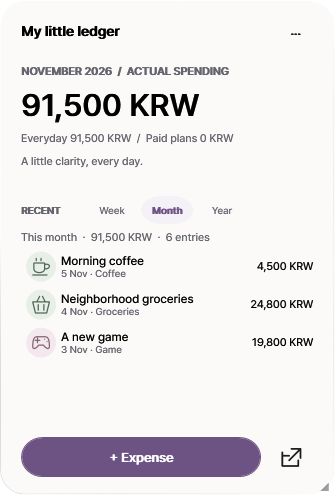
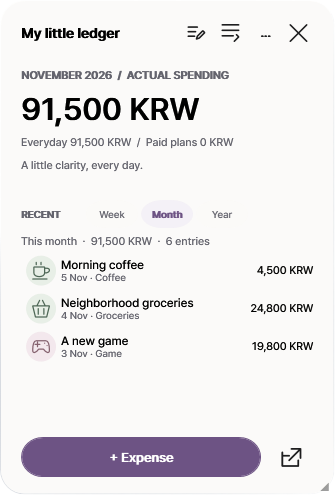
BETA02: publish second Windows beta downloads and new widget showcase

diff --git a/README.md b/README.md
@@ -1,93 +1,98 @@
 # Tally
 **Your spending, without the noise.**
 
-**A calm Windows spending journal, subscription tracker and desktop companion.** Tally opens as a small widget, stays out of the way, and keeps your expenses, recurring bills and receipt photos together on your PC.
+A calm, local-first Windows spending journal, subscription tracker, and desktop companion. Start with a small widget. Open the full workspace only when you need it.
 
-**Windows 10/11 x64 · Local-first · No account · No banking connection · Beta 1**
+**Windows 10/11 x64 · Offline-friendly · No account · No bank connection · Beta 2**
 
-## Download Tally Beta 1
+## Download Tally Beta 2
 
-| Choose | Download | Where your records live |
+| Edition | Download | Where your own records stay |
 |:--|:--|:--|
-| **Portable ZIP** — extract and run, no installation | **[Download portable ZIP](https://github.com/memeseonew-eng/Tally/releases/download/v0.5.0-beta.1/Tally-Portable-v0.5.0-beta.1-win-x64.zip)** | `data/` beside `Tally.exe` |
-| **Windows Setup** — shortcuts, simple updates, per-user install | **[Download Windows installer](https://github.com/memeseonew-eng/Tally/releases/download/v0.5.0-beta.1/Tally-Setup-v0.5.0-beta.1-win-x64.exe)** | `%LOCALAPPDATA%\Tally\data` |
+| **Portable ZIP** — extract and launch | [Portable for Windows x64](https://github.com/memeseonew-eng/Tally/releases/download/v0.5.4-beta.2/Tally-Portable-v0.5.4-beta.2-win-x64.zip) | `data/` beside `Tally.exe` |
+| **Windows Setup** — installed shortcuts, per-user setup | [Windows Setup for x64](https://github.com/memeseonew-eng/Tally/releases/download/v0.5.4-beta.2/Tally-Setup-v0.5.4-beta.2-win-x64.exe) | `%LOCALAPPDATA%\Tally\data` |
 
-**[Beta 1 release notes](https://github.com/memeseonew-eng/Tally/releases/tag/v0.5.0-beta.1)** · **[All versions](https://github.com/memeseonew-eng/Tally/releases)** · **[SHA256 checksums](https://github.com/memeseonew-eng/Tally/releases/download/v0.5.0-beta.1/SHA256SUMS.txt)**
+[**What's new in Beta 2**](https://github.com/memeseonew-eng/Tally/releases/tag/v0.5.4-beta.2) · [SHA256 checksums](https://github.com/memeseonew-eng/Tally/releases/download/v0.5.4-beta.2/SHA256SUMS.txt) · [All versions](https://github.com/memeseonew-eng/Tally/releases)
 
-*This is an unsigned early beta. Windows may warn about an unrecognized publisher. Download only from the official release, verify the SHA256 checksum, and don't disable your security protections.*
-
----
-
-## A little clarity, every day
-
-![Tally Overview — upcoming bills and recorded spending](screenshots/tally-overview.png)
-*Everything in context: actual spending, the next payment, and 30-day/365-day scheduled forecasts. Screenshots use illustrative demo data.*
-
-### Keep it on your desktop
-
-Tally starts as a discreet **desktop widget**. See your spending at a glance, add an expense, then return to your day. Select **recent Week / Month / Year** without losing the separate current-month total. Open the full app with the small arrow icon, or hide the widget to the Windows tray.
-
-<img src="screenshots/tally-widget.png" width="350" alt="Tally calm desktop widget with recent spending, category icons, and quick expense entry">
-
-The widget can optionally show upcoming bills, top spending categories, or more recent entries — **none of these extras are forced on first launch.**
-
-### Your spending, with a real timeline
-
-![Tally Expenses — monthly spending charts and category breakdown](screenshots/tally-expenses.png)
-*Week, Month and Year views, categories, totals and transactions. Currency totals are always separate.*
-
-Record everyday purchases, search the ledger, choose from **27 category icons** (including Game), and see where the money went. Add up to **three local photos per expense** — useful for receipts and things worth remembering. Paid subscription records appear in actual spending only when you explicitly mark them paid.
-
-### Make it yours. Or don't change a thing.
-
-![Tally optional Style Studio — accent swatches, widget titles, badges and preview](screenshots/tally-personalization.png)
-*An optional customization panel, shown with an example lilac style. The understated original is the default.*
-
-- Choose a local background photo; fine-tune **blur and panel opacity**.
-- Pick an accent, or enter your own hex color.
-- Personalize the widget title and short note.
-- Choose rounded, circle or square category badges.
-- Save up to eight looks and **return to the base design in one click**.
-
-No dozens of overwhelming themes. Just a quiet default and thoughtful optional finishing touches.
-
-### Your file, your records, your backup
-
-![Tally local data and recovery backup screen](screenshots/tally-data-backup.png)
-*Local database snapshot and recovery controls.*
-
-Tally needs **no account, cloud login, API subscription or bank access**. It stores records in a local SQLite file plus optional images and preference files. Before destructive removal, Tally creates a recovery snapshot. You can also save a database snapshot from Settings or create a **full data-folder ZIP** (including receipts and preferences) after quitting the app.
-
-The Windows installer **does not delete your data when uninstalled**. Moving from portable to setup? Quit both editions and copy the whole data folder to the installed location. Do not overwrite two independently edited datasets.
+*Beta 2 is unsigned. Windows may warn about an unrecognized publisher. Get it only from our official release, check the SHA256 hash, and keep Windows security enabled.*
 
 ---
 
-## What makes Tally different?
+## Quiet by default. Useful when you need more.
 
-| | |
-|---|---|
-| **Widget-first, not dashboard-first** | A tiny companion until you need the full ledger |
-| **Actual vs. expected** | Recorded purchases never silently become future forecasts; scheduled bills aren't automatically considered paid |
-| **Personal, optional style** | Liquid-glass-inspired neutral layout with background photos, blur, badges and saved looks |
-| **Receipts that stay local** | Up to three managed photo attachments per expense |
-| **Simple backup story** | A predictable data folder, guarded SQLite writes and recovery before removal |
-| **Exact, separate currencies** | No invented exchange rates or misleading mixed-currency totals |
-| **Offline by design** | No required server, banking connector, cloud account or background release check |
+![Tally overview with actual spending and projected bills](screenshots/tally-overview.png)
+*Actual expenses and future scheduled bills live side by side — but they are never mistaken for the same thing. All images show illustrative synthetic data.*
 
-## Install and update
+### One widget for the everyday things
 
-**Portable:** Extract the complete ZIP into a writable folder (e.g., Documents), then open `Tally.exe`. Keep the entire extracted folder, especially `data/`. For a full data ZIP, quit Tally and run `Backup-Tally.cmd`. To update, close Tally and replace only the app files, not your `data/` folder.
+Tally opens to a floating desktop widget with current-month actual spending, your recent purchases, and a quick **+ Expense** action. You can choose a Week, Month, or Year recent-activity view without changing the current-month headline.
 
-**Setup:** Run the installer. It installs for the current Windows user without administrator access and stores user records separately at `%LOCALAPPDATA%\Tally\data`. Use the **Back up Tally data** Start menu shortcut after quitting Tally. Updating or uninstalling the app does not remove your data folder.
+<img src="screenshots/tally-widget.png" alt="Tally neutral desktop spending widget" width="350">
 
-Tally's own **Settings → Additional · Beta & updates** panel shows the installed version and links to this release and the version history. Updates are manual for this beta.
+**Beta 2 adds small, optional tools in that same widget.** There is no mandatory dashboard or extra setup.
 
-## Beta notes
+| Quick note | Direct management |
+|:--|:--|
+| <img src="screenshots/tally-notes.png" width="310" alt="Tally private in-widget note editor"> | <img src="screenshots/tally-manage-subscriptions.png" width="310" alt="Tally widget subscription management and add button"> |
+| Keep a short, private note on this device. It saves safely without becoming a transaction. | Edit expenses or subscriptions, add a subscription, and explicitly record a due payment without opening the main window. |
 
-Tally is an early Windows x64 beta. It does **not** automatically read bank transactions, detect settled payments, perform currency conversion, synchronize data between computers, or provide certified reminders. The desktop widget is an independent floating WPF window, not embedded into the Explorer desktop layer; multi-monitor behavior and Win+D persistence still need broader validation. The app and installer are currently **unsigned**. For problems, please use [GitHub Issues](https://github.com/memeseonew-eng/Tally/issues), but **never post your personal `data/` folder, receipts or bank information in an issue**.
+Switch between **Manage → Expenses** and **Manage → Subscriptions**, and the single large Add button changes with you. The widget's **×** hides just the widget; Tally stays accessible in the Windows tray.
 
-## License and resources
+<img src="screenshots/tally-manage-expenses.png" width="350" alt="Manage existing expense records directly from the widget">
 
-Tally's original application binaries, icons, design assets and compiled shaders are distributed under **[proprietary end-user terms](LICENSE.txt)**. This public repository is a binary release and product information hub — **not an open-source code repository**. Third-party .NET and SQLite components retain their own separate licenses; see [notices](THIRD-PARTY-NOTICES.txt).
+### Open and close as one continuous gesture
+
+The widget's full-window arrow opens the workspace with a quick, position-linked entrance. Close the workspace using its X and the motion gently returns toward that same widget button. Currency, category, billing-cycle, and calendar lists unfold with restrained motion too.
+
+No excessive bouncing or long loading delays: controls remain clickable, keyboard navigation works, and Windows reduced-motion and high-contrast settings are respected. The widget is a regular independent WPF window, not an Explorer desktop injection.
+
+### See what you've actually spent
+
+![Tally spending ledger with category totals](screenshots/tally-expenses.png)
+*Week, Month, and Year recorded spending; separate currencies, clear categories, and a searchable ledger.*
+
+- Add, edit, and find everyday expenses; use 27 category presets including Game, or create your own.
+- Attach up to three local photos or receipts to a transaction.
+- Keep paid subscriptions in your actual expense history **only after** you confirm a real payment.
+- View category insights as an option; keep simple defaults intact.
+
+### Plan subscriptions without inventing payments
+
+Track recurring subscriptions and forecast the next 30 or 365 days. Scheduled costs are not silently treated as settled payments. Use **Record paid** intentionally, with confirmation and duplicate protection. Older payment records are preserved through subsequent subscription edits or archiving.
+
+### Personalize it — or leave it alone
+
+![Tally optional personalization](screenshots/tally-personalization.png)
+*Neutral glass is the default. Custom backgrounds, accents, widget text, badges, and saved looks are optional.*
+
+Choose a local wallpaper, adjust blur and panel opacity, tweak the accent, personalize the widget title, and save up to eight visual looks. **Use base design** returns to the understated original.
+
+### Everything lives on your computer
+
+![Tally local backup and settings panel](screenshots/tally-data-backup.png)
+
+Your expenses and subscriptions are stored in local SQLite alongside optional note, appearance, and photo files. No online account, bank login, cloud sync, exchange-rate guessing, or background update polling is required.
+
+Tally takes recovery backups before protected removals. After quitting the app, you can run the included **Backup-Tally** helper to preserve the *entire data folder*, including local photos and preferences.
+
+## Install, upgrade, and protect your data
+
+**Portable:** Extract the whole ZIP to a writable folder, then run `Tally.exe`. For a manual update, quit Tally first, keep your `data/` folder intact, and replace only application files. `Open-Full-Tally.cmd` opens the complete workspace directly.
+
+**Setup:** Install for your Windows account without an administrator requirement. Your files stay at `%LOCALAPPDATA%\Tally\data`, outside the application directory. Uninstalling does not delete that folder. Update using the new Setup after quitting Tally.
+
+**Switching editions or PCs?** Quit both, back up the *whole* data folder, and copy it to the destination. Do not combine independently edited SQLite databases or overwrite newer transactions with an older copy.
+
+Tally's **Settings → Additional · Beta & updates** section contains the installed version, this release, and release history links. Updates are manual.
+
+## A few important limits
+
+This is an early, unsigned Windows x64 beta. There is no automatic bank-transaction detection, foreign-exchange conversion, built-in account/cloud syncing, certified reminders, or guaranteed Win+D persistence. Multi-monitor and mixed-DPI behavior are not fully certified.
+
+Report bugs through [GitHub Issues](https://github.com/memeseonew-eng/Tally/issues), but **never attach your actual `data/` folder, private receipts, real banking records, or private developer archives**.
+
+## License
+
+The public repository is a **binary download and product-information hub, not an open-source code repository**. Original application code and assets are proprietary; see [LICENSE.txt](LICENSE.txt). Third-party .NET and SQLite packages retain their respective licenses; see [THIRD-PARTY-NOTICES.txt](THIRD-PARTY-NOTICES.txt).
 
 © 2026 Tally contributors. All rights reserved.

diff --git a/RELEASE_NOTES_BETA2.md b/RELEASE_NOTES_BETA2.md
@@ -1,0 +1,68 @@
+# Tally 0.5.4 Beta 2 — Your desktop companion, more complete
+
+**A quieter way to keep track of real spending and recurring plans — now with notes, direct widget management, and natural motion.**
+
+The second public Windows beta expands the small desktop companion without making the default interface more complicated. All existing local records, custom looks, and manual subscription-payment rules remain intact.
+
+## Download for Windows 10/11 x64
+
+- **Portable ZIP:** [Tally-Portable-v0.5.4-beta.2-win-x64.zip](https://github.com/memeseonew-eng/Tally/releases/download/v0.5.4-beta.2/Tally-Portable-v0.5.4-beta.2-win-x64.zip)
+- **Windows Setup:** [Tally-Setup-v0.5.4-beta.2-win-x64.exe](https://github.com/memeseonew-eng/Tally/releases/download/v0.5.4-beta.2/Tally-Setup-v0.5.4-beta.2-win-x64.exe)
+- **File hashes:** [SHA256SUMS.txt](https://github.com/memeseonew-eng/Tally/releases/download/v0.5.4-beta.2/SHA256SUMS.txt)
+
+Both packages are self-contained with .NET and Windows Desktop runtime 10.0.14; no separate .NET installation is required. There is no account, subscription, cloud service, or bank connection required.
+
+## What's new since Beta 1
+
+### 1. Notes — a little space for the things you don't want to forget
+
+![Private widget quick note](https://raw.githubusercontent.com/memeseonew-eng/Tally/v0.5.4-beta.2/screenshots/tally-notes.png)
+
+Tap the widget's Notes icon to write a short note (up to 1,500 characters) without entering the full application. Notes are saved locally, use guarded atomic storage, and retain recoverable copies if a file is malformed. No note file is created simply by opening the empty panel.
+
+### 2. Manage expenses and subscriptions without opening a big window
+
+![Manage subscriptions directly in the widget](https://raw.githubusercontent.com/memeseonew-eng/Tally/v0.5.4-beta.2/screenshots/tally-manage-subscriptions.png)
+
+The optional widget Manage view has **Expenses** and **Subscriptions** tabs. Edit an existing record or create a new one using the native editor. The single large action changes automatically between **+ Expense** and **+ Subscription**. A scheduled payment can be marked **Record paid** only with confirmation and duplicate protection. The full main window stays hidden.
+
+![Manage expenses from the desktop widget](https://raw.githubusercontent.com/memeseonew-eng/Tally/v0.5.4-beta.2/screenshots/tally-manage-expenses.png)
+
+### 3. A real one-click widget close
+
+The new **×** at the top of the widget closes only that floating companion. Tally stays in the Windows tray, so it is easy to bring back. Notes are still guarded against unsafe closure when their save fails.
+
+### 4. An interface that feels connected
+
+Opening Tally from the widget's small arrow now uses a brief origin-linked expansion. Closing the full workspace through its X uses a complementary short return toward that same widget button. Currency, category, billing-cycle and calendar lists have gentle, responsive *opening* motion, along with subtle button and tab feedback. Reduced-motion and high-contrast OS settings are respected.
+
+**Important:** Native dropdowns close immediately to preserve keyboard Tab/Escape behavior; an extra closing fade is **not** included.
+
+### 5. Everything you already rely on
+
+![Spending by period and category](https://raw.githubusercontent.com/memeseonew-eng/Tally/v0.5.4-beta.2/screenshots/tally-expenses.png)
+
+- Record and edit spending by Week, Month or Year; search, filter, and view category totals.
+- Pick from 27 preset categories (including Game) or enter a custom name; attach up to three local photos per purchase.
+- Manage recurring subscriptions, predicted next 30/365-day charges, retained paid records, archive and restore.
+- Keep actual expenses separate from scheduled bills. Payments are **never automatically declared paid** and currencies are **never silently converted**.
+- Personalize the neutral glass interface only if you wish: local wallpaper, blur/opacity, accents, badge shapes, widget title and saved looks.
+- Make full local data backups (including photos and settings) with the included helper after quitting Tally.
+
+## Updating without losing data
+
+**Portable:** Quit Tally from the tray, then replace the old program files with this new ZIP. Keep your complete existing `data/` folder beside the executable; never replace it with an empty folder from a new extraction.
+
+**Setup:** Quit Tally before running the new installer. The application installs per-user; private data remains in `%LOCALAPPDATA%\Tally\data`, and uninstalling the application does not delete it.
+
+Before switching editions or machines, make a complete data-folder backup. SQLite files, receipt photos, notes, background copies and appearance settings all matter. Do not combine two separately edited databases.
+
+## Privacy and limits
+
+Tally remains local-first and does not silently contact banking APIs, upload financial data, sync between devices, calculate FX rates or check for updates in the background. This is an **unsigned early beta**; Windows may show an unrecognized-publisher warning. Verify official file hashes and leave security protections enabled. Mixed-DPI/multiple-monitor use and Win+D persistence remain areas for wider testing.
+
+Every screenshot here shows **synthetic demonstration data**. Do not attach your real Tally data folder, receipts or private development backups to issues.
+
+Tally's public GitHub repository contains downloads, documentation and promotional screenshots only. Original C# source, WPF resources and development Git history are not published.
+
+[All releases](https://github.com/memeseonew-eng/Tally/releases) · [Report an issue](https://github.com/memeseonew-eng/Tally/issues) · [License](https://github.com/memeseonew-eng/Tally/blob/main/LICENSE.txt)

diff --git a/CHANGELOG.md b/CHANGELOG.md
@@ -1,5 +1,17 @@
 # Tally release history
 
+## 0.5.4 Beta 2 (2026-11-05)
+Second public Windows x64 beta: the widget becomes a more useful independent companion while the default layout stays quiet.
+
+- **Widget quick note:** Optional 1,500-character private scratchpad, autosave/manual save, guarded atomic updates and explicit recovery.
+- **Direct widget management:** Edit/add everyday expenses and subscriptions, and confirm scheduled payments without opening the full workspace.
+- **Single adaptive primary action:** The widget's large button changes between + Expense and + Subscription; duplicate small add actions were removed.
+- **One-click widget close:** A dedicated X hides only the widget and preserves the tray and safe note closure.
+- **Connected motion:** Widget-to-workspace opening and a complementary reverse close, subtle navigation and button feedback, and short native currency/category/billing/calendar *opening* animations.
+- **Keyboard-safe dropdowns:** Escape/Tab and selection remain immediate; no delayed dropdown closing fade.
+- **Distribution and privacy:** New self-contained Portable and Setup, public hashes and synthetic screenshots, no private code/data uploaded, manual update links.
+- **Preserved foundations:** Currency-separated recorded spending, subscriptions, linked paid history, receipts, optional Style Studio, local SQLite and full-data backups.
+
 ## 0.5.0 Beta 1 (2026-11-05)
 First public Windows x64 beta.
 

diff --git a/.github/ISSUE_TEMPLATE/bug_report.md b/.github/ISSUE_TEMPLATE/bug_report.md
@@ -1,25 +1,24 @@
 ---
 name: Beta bug report
-about: Report a bug without exposing private financial information
+about: Report a bug with synthetic or anonymized information
 title: "[Beta] "
 labels: bug
 assignees: ''
 ---
 
 ## Tally version and edition
-(e.g. v0.5.0-beta.1, Portable or Setup)
+(e.g. v0.5.4-beta.2, Portable or Setup)
 
 ## What happened?
-Provide a brief description.
 
-## Steps using synthetic or anonymized data
+## Reproduction with synthetic or anonymized data
 1.
 2.
 3.
 
 ## Expected behavior
 
-## Windows version / display scaling
+## Windows version / display scaling / animation settings
 
 ## Sanitized screenshot (optional)
-Never upload your Tally data/ folder, tally.sqlite, receipts, personal paths or real balances.
+Never upload your actual data/ folder, tally.sqlite, receipts, private wallpaper, banking records or private development source/save ZIP.
